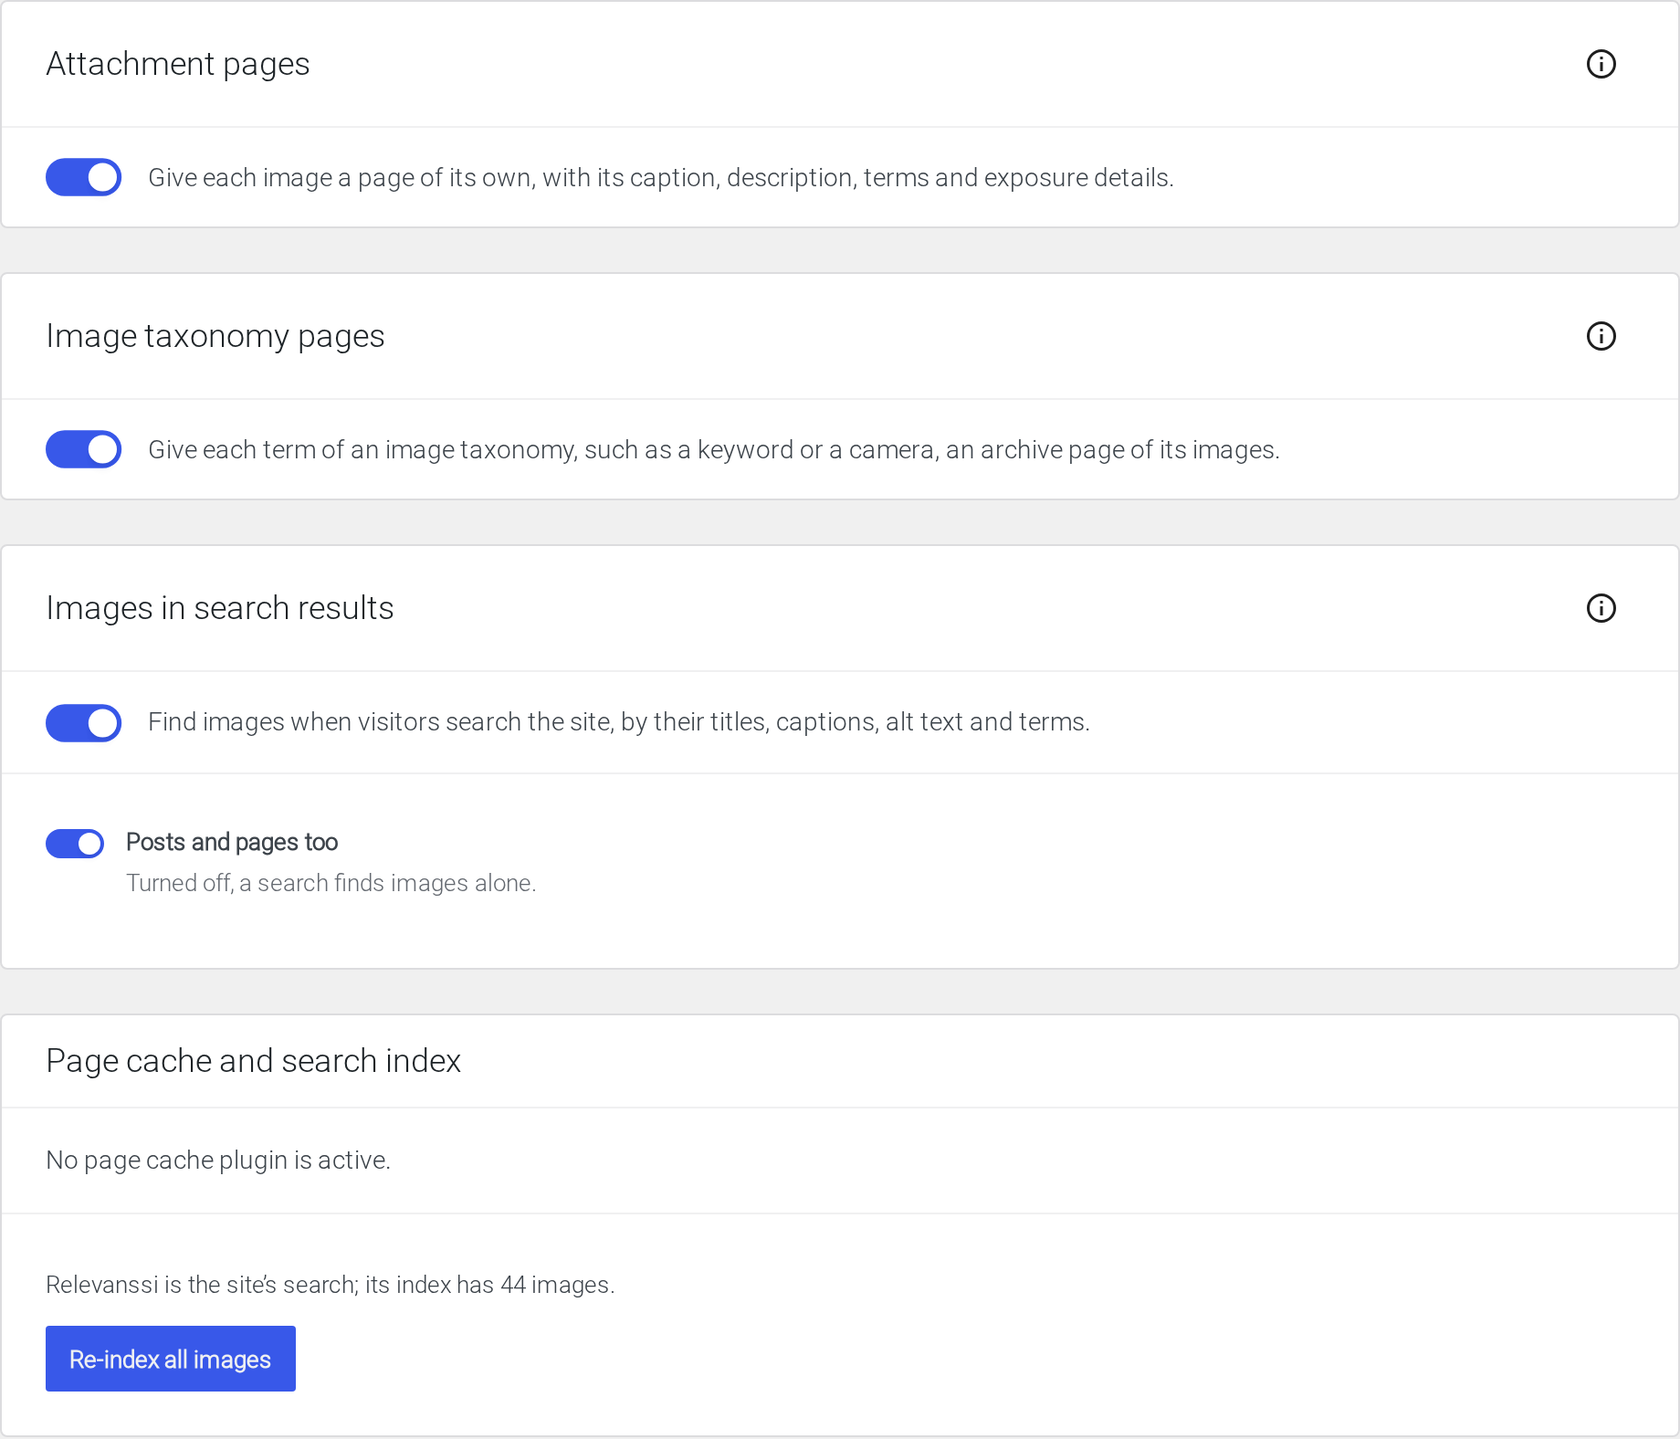
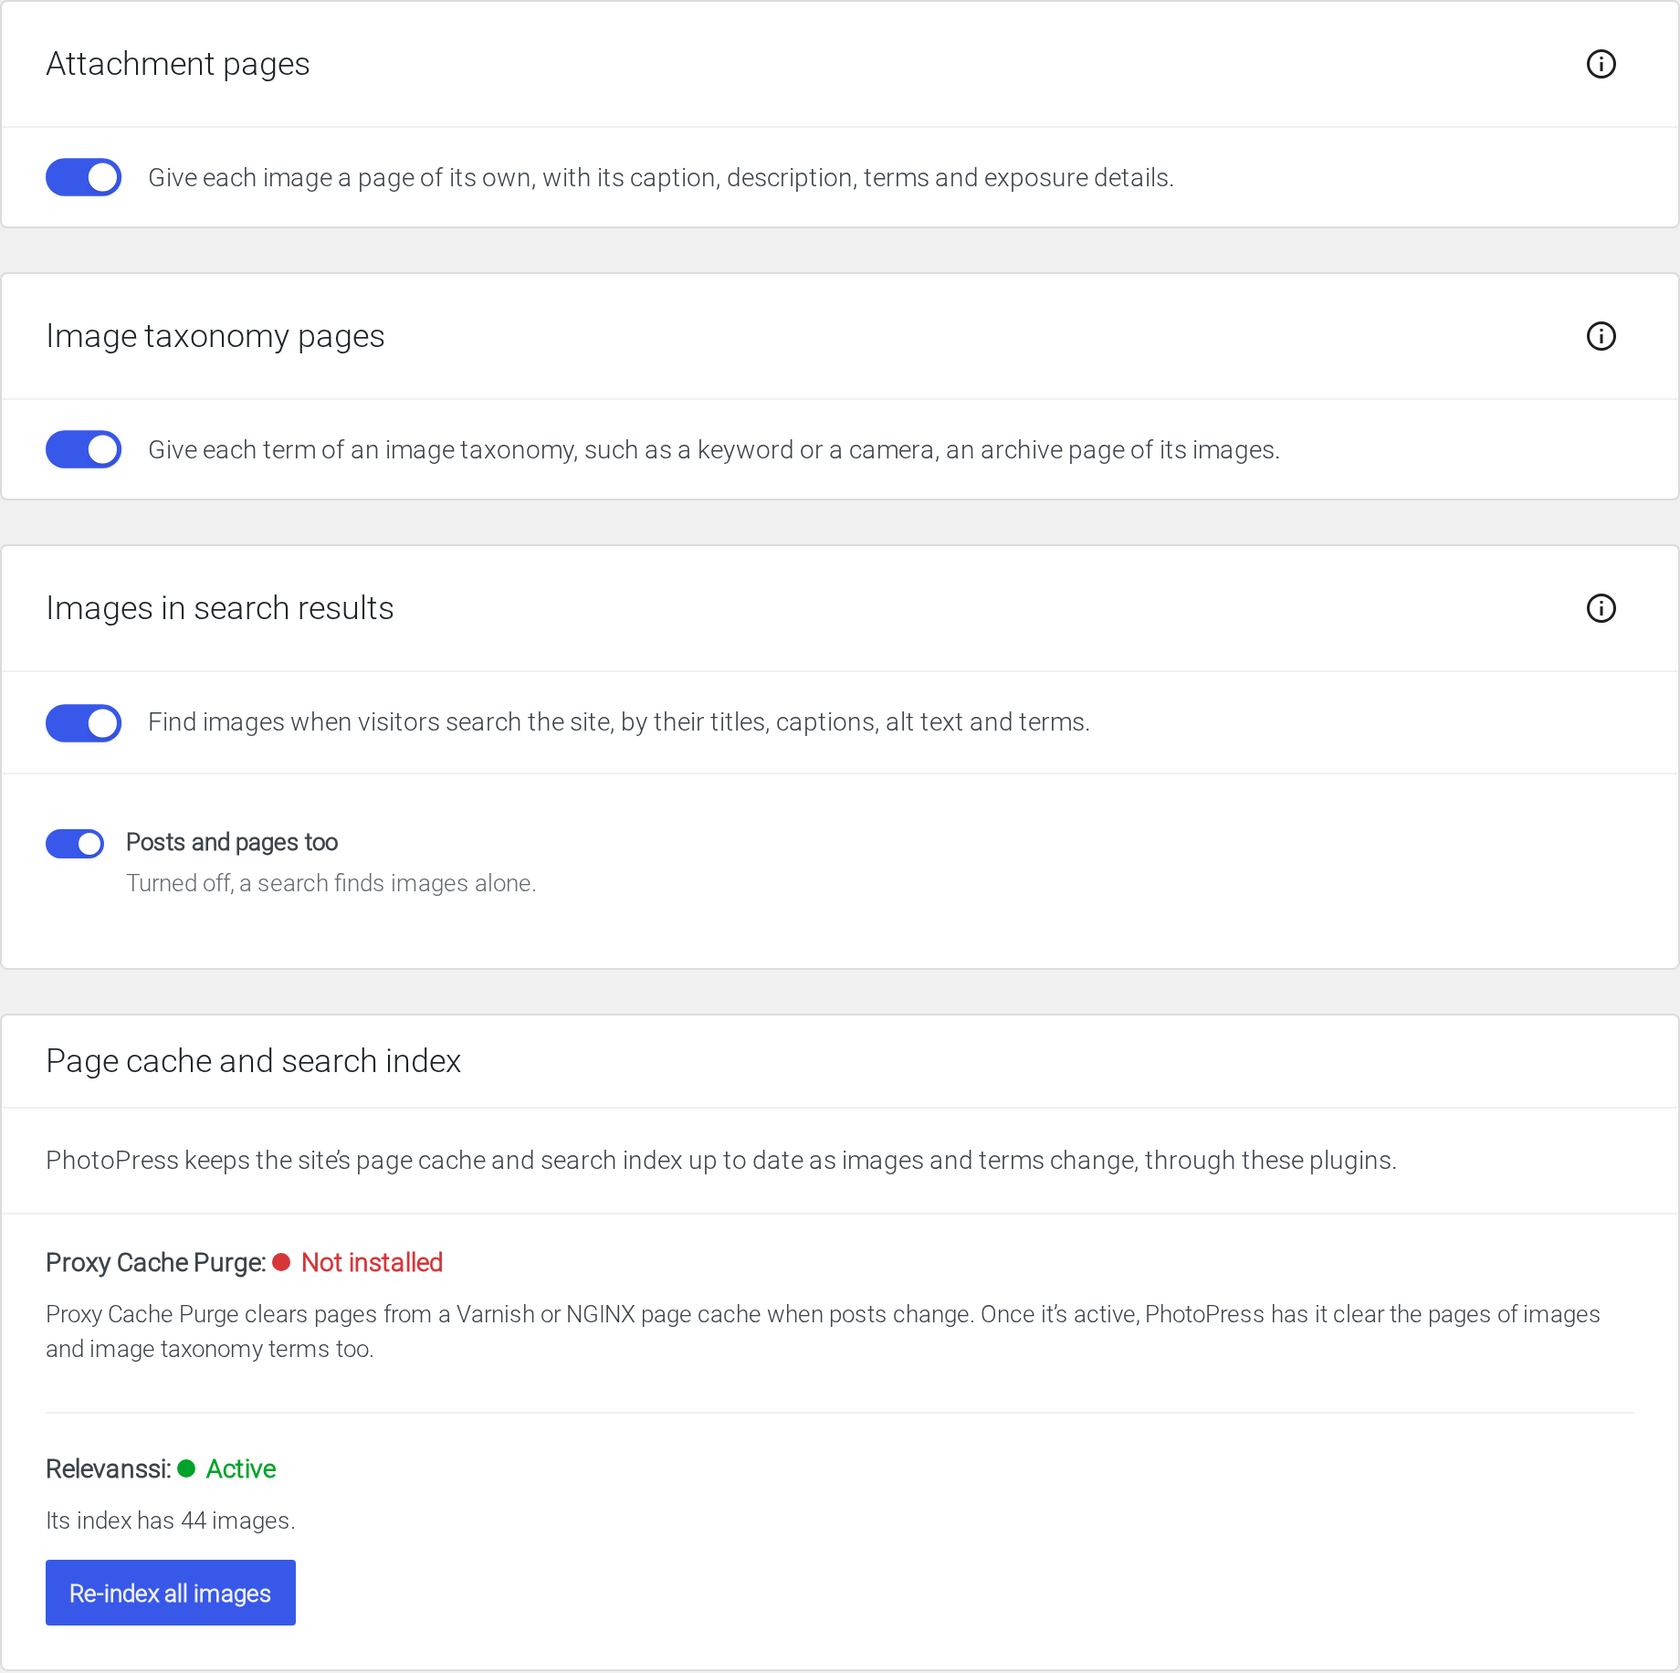
Page cache and search index card: Proxy Cache Purge and Relevanssi shown active, disabled or not installed, as the Offload Media tab shows WP Offload Media (a shared PluginState); detection of cache plugins PhotoPress doesn't clear through removed

diff --git a/src/options/search.js b/src/options/search.js
@@ -20,22 +20,23 @@ import {
 import FeatureSection from '../shared/feature-section.js';
 import SwitchRow from '../shared/switch-row.js';
 import JobPanel from '../shared/jobs.js';
+import PluginState from '../shared/plugin-state.js';
 
-// Whether Relevanssi is the site's search, and its index; the page cache
-// plugin, and whether PhotoPress clears its pages (modules/search).
-const RELEVANSSI = window.photopressRelevanssi || { active: false };
-const PAGE_CACHE = window.photopressPageCache || { plugin: '', purges: false };
+// Proxy Cache Purge and Relevanssi: active, inactive or missing, and the
+// images in Relevanssi's index (modules/search).
+const RELEVANSSI = window.photopressRelevanssi || { plugin: 'missing' };
+const PAGE_CACHE = window.photopressPageCache || { plugin: 'missing' };
 
-/** The page cache in use, and whether PhotoPress clears its pages. */
-function pageCache() {
-	if ( PAGE_CACHE.purges ) {
-		return sprintf( __( 'Pages are cached by %s. PhotoPress clears the pages of images and image taxonomy terms when they change.' ), PAGE_CACHE.plugin );
-	}
+const PAGE_CACHE_TEXT = {
+	active: __( 'PhotoPress has it clear an image’s page when the image is edited or deleted or its terms change, while attachment pages are on, and every page of a term’s archive when its images change or the term is renamed, while image taxonomy pages are on.' ),
+	inactive: __( 'Activate it to clear the pages of images and image taxonomy terms from the page cache when they change.' ),
+	missing: __( 'Proxy Cache Purge clears pages from a Varnish or NGINX page cache when posts change. Once it’s active, PhotoPress has it clear the pages of images and image taxonomy terms too.' ),
+};
 
-	return PAGE_CACHE.plugin
-		? sprintf( __( 'Pages are cached by %s. PhotoPress doesn’t clear its pages; they are refreshed as its settings say.' ), PAGE_CACHE.plugin )
-		: __( 'No page cache plugin is active.' );
-}
+const RELEVANSSI_TEXT = {
+	inactive: __( 'Activate it to search the site with its index.' ),
+	missing: __( 'Relevanssi replaces WordPress’s search with one that ranks results by relevance. Once it’s active, PhotoPress has it index images and their terms.' ),
+};
 
 class SearchSettings extends Component {
 	constructor() {
@@ -124,33 +125,38 @@ class SearchSettings extends Component {
 				<FeatureSection
 					title={ __( 'Page cache and search index' ) }
 					className="photopress-search-cache"
-					description={ pageCache() }
-					info={ PAGE_CACHE.purges && [
-						<p key="0">{ __( 'Proxy Cache Purge clears a post’s pages when the post is saved, but not an image’s, or a term’s. PhotoPress clears an image’s page when the image is edited or deleted or its terms change, while attachment pages are on, and every page of a term’s archive when its images change or it is renamed, while image taxonomy pages are on.' ) }</p>,
-					] }
+					description={ __( 'PhotoPress keeps the site’s page cache and search index up to date as images and terms change, through these plugins.' ) }
 				>
-					{ RELEVANSSI.active ? (
-						<div className="photopress-search-relevanssi">
-							<p>
-								{ RELEVANSSI.images
-									? sprintf( _n( 'Relevanssi is the site’s search; its index has %s image.', 'Relevanssi is the site’s search; its index has %s images.', RELEVANSSI.images ), RELEVANSSI.images.toLocaleString() )
-									: __( 'Relevanssi is the site’s search, and its index has no images yet.' ) }
-							</p>
-							<JobPanel
-								type="search.index"
-								label={ __( 'Adding images to the search index' ) }
-								compact
-								startable={ !! this.getSetting( 'images_in_search' ) }
-								startLabel={ __( 'Re-index all images' ) }
-								refresh={ this.state.settings.images_in_search }
-							/>
-							{ ! this.getSetting( 'images_in_search' ) && (
-								<p className="components-base-control__help">{ __( 'Turn on Images in search results to add images to the index.' ) }</p>
-							) }
-						</div>
-					) : (
-						<p>{ __( 'The site’s search is WordPress’s own, which keeps no index.' ) }</p>
-					) }
+					<div className="photopress-plugin-status" data-plugin="varnish-http-purge">
+						<PluginState name={ __( 'Proxy Cache Purge' ) } state={ PAGE_CACHE.plugin } />
+						<p>{ PAGE_CACHE_TEXT[ PAGE_CACHE.plugin ] }</p>
+					</div>
+
+					<div className="photopress-plugin-status" data-plugin="relevanssi">
+						<PluginState name={ __( 'Relevanssi' ) } state={ RELEVANSSI.plugin } />
+						{ 'active' === RELEVANSSI.plugin ? (
+							<>
+								<p>
+									{ RELEVANSSI.images
+										? sprintf( _n( 'Its index has %s image.', 'Its index has %s images.', RELEVANSSI.images ), RELEVANSSI.images.toLocaleString() )
+										: __( 'Its index has no images yet.' ) }
+								</p>
+								<JobPanel
+									type="search.index"
+									label={ __( 'Adding images to the search index' ) }
+									compact
+									startable={ !! this.getSetting( 'images_in_search' ) }
+									startLabel={ __( 'Re-index all images' ) }
+									refresh={ this.state.settings.images_in_search }
+								/>
+								{ ! this.getSetting( 'images_in_search' ) && (
+									<p className="components-base-control__help">{ __( 'Turn on Images in search results to add images to the index.' ) }</p>
+								) }
+							</>
+						) : (
+							<p>{ RELEVANSSI_TEXT[ RELEVANSSI.plugin ] }</p>
+						) }
+					</div>
 				</FeatureSection>
 			</Fragment>
 		);

diff --git a/tests/e2e/search-settings.spec.js b/tests/e2e/search-settings.spec.js
@@ -118,30 +118,39 @@ test( 'image taxonomy pages off: no keyword archive, terms shown unlinked, and t
 	expect( ( await page.goto( archive ) ).status() ).toBe( 200 );
 } );
 
-test( 'the page cache and search index card: the cache in use, and Relevanssi\'s index with Re-index all images', async ( { page } ) => {
-	const status = JSON.parse( lastLine( wp( 'eval', `echo wp_json_encode( [
-		'cache'      => \\PhotoPress\\modules\\search\\PageCache::plugin(),
-		'relevanssi' => \\PhotoPress\\modules\\search\\ImageSearch::relevanssi(),
-		'images'     => \\PhotoPress\\modules\\search\\search::enabled( 'images_in_search', false ),
-	] );` ) ) );
+test( 'the page cache and search index card: Proxy Cache Purge and Relevanssi as the Offload Media tab shows its plugin, with Re-index all images', async ( { page } ) => {
+	const status = JSON.parse( lastLine( wp( 'eval', `
+		use PhotoPress\\modules\\search\\{ search, PageCache, ImageSearch };
+		echo wp_json_encode( [
+			'cache'      => search::pluginState( PageCache::purges(), [ 'varnish-http-purge/' ] ),
+			'relevanssi' => search::pluginState( ImageSearch::relevanssi(), [ 'relevanssi/', 'relevanssi-premium/' ] ),
+			'images'     => search::enabled( 'images_in_search', false ),
+		] );
+	` ) ) );
+	const STATES = { active: 'Active', inactive: 'Disabled', missing: 'Not installed' };
 
 	await page.goto( URL );
 	const card = page.locator( '.photopress-search-cache' );
 	await expect( card.getByRole( 'heading', { name: 'Page cache and search index' } ) ).toBeVisible( { timeout: 30000 } );
 	await expect( card.getByRole( 'checkbox' ) ).toHaveCount( 0 );
-	await expect( card ).toContainText( status.cache ? `Pages are cached by ${ status.cache }.` : 'No page cache plugin is active.' );
 
-	if ( ! status.relevanssi ) {
-		await expect( card ).toContainText( 'The site’s search is WordPress’s own, which keeps no index.' );
+	const cache = card.locator( '[data-plugin="varnish-http-purge"] .photopress-plugin-state' );
+	await expect( cache ).toHaveText( `Proxy Cache Purge: ${ STATES[ status.cache ] }` );
+	await expect( cache.locator( `.is-${ status.cache }` ) ).toBeVisible();
+
+	const relevanssi = card.locator( '[data-plugin="relevanssi"]' );
+	await expect( relevanssi.locator( '.photopress-plugin-state' ) ).toHaveText( `Relevanssi: ${ STATES[ status.relevanssi ] }` );
+	if ( 'active' !== status.relevanssi ) {
+		await expect( relevanssi.getByRole( 'button' ) ).toHaveCount( 0 );
 		return;
 	}
 
-	await expect( card ).toContainText( /Relevanssi is the site’s search(; its index has [\d,]+ images?\.|, and its index has no images yet\.)/ );
-	const reindex = card.getByRole( 'button', { name: 'Re-index all images' } );
+	await expect( relevanssi ).toContainText( /Its index has ([\d,]+ images?|no images yet)\./ );
+	const reindex = relevanssi.getByRole( 'button', { name: 'Re-index all images' } );
 	if ( status.images ) {
 		await expect( reindex ).toBeEnabled();
 	} else {
 		await expect( reindex ).toHaveCount( 0 );
-		await expect( card ).toContainText( 'Turn on Images in search results to add images to the index.' );
+		await expect( relevanssi ).toContainText( 'Turn on Images in search results to add images to the index.' );
 	}
 } );

diff --git a/src/options/media.js b/src/options/media.js
@@ -4,6 +4,7 @@
  */
 const { __, _n, sprintf } = wp.i18n;
 import SwitchRow from '../shared/switch-row.js';
+import PluginState from '../shared/plugin-state.js';
 import { Component, useEffect, useState } from '@wordpress/element';
 import apiFetch from '@wordpress/api-fetch';
 import { BaseControl, Button, Notice, PanelBody, SelectControl, TextControl } from '@wordpress/components';
@@ -23,12 +24,6 @@ const CREDENTIAL_SOURCES = {
 	photopress: __( 'PHOTOPRESS_AWS_* constants in wp-config.php' ),
 	'instance-role': __( 'The server’s IAM role' ),
 	'offload-media': __( "WP Offload Media's credentials" ),
-};
-
-const PLUGIN_STATES = {
-	active: __( 'Active' ),
-	inactive: __( 'Disabled' ),
-	missing: __( 'Not installed' ),
 };
 
 const when = ( time ) => new Date( time * 1000 ).toLocaleString();
@@ -77,12 +72,7 @@ function OffloadStatus() {
 		return error ? <Notice status="error" isDismissible={ false }>{ error }</Notice> : <p>{ __( 'Checking…' ) }</p>;
 	}
 
-	const state = (
-		<p className="photopress-offload-state">
-			{ __( 'WP Offload Media:' ) }{ ' ' }
-			<span className={ `photopress-offload-state__value is-${ status.plugin }` }>{ PLUGIN_STATES[ status.plugin ] || status.plugin }</span>
-		</p>
-	);
+	const state = <PluginState name={ __( 'WP Offload Media' ) } state={ status.plugin } />;
 
 	if ( 'missing' === status.plugin ) {
 		return (

diff --git a/src/shared/styles/options.scss b/src/shared/styles/options.scss
@@ -358,15 +358,34 @@ input[type="checkbox"] {
 	margin-top: 8px;
 }
 
-// "Offload Media status: Active / Disabled / Not installed", colored as
-// WordPress colors success, warning and error, with a dot, so the color is
-// not the only signal.
-.photopress-offload-state {
+// A plugin PhotoPress works with, on the Pages & Search tab: its state, and
+// what PhotoPress does with it.
+.photopress-plugin-status {
+
+	+ .photopress-plugin-status {
+		margin-top: 24px;
+		padding-top: 20px;
+		border-top: 1px solid #f0f0f1;
+	}
+
+	p {
+		margin: 0 0 12px;
+	}
+
+	.photopress-plugin-state {
+		margin-bottom: 8px;
+	}
+}
+
+// Another plugin's state (src/shared/plugin-state.js): "Name: Active /
+// Disabled / Not installed", colored as WordPress colors success, warning
+// and error, with a dot, so the color is not the only signal.
+.photopress-plugin-state {
 	font-size: 14px;
 	font-weight: 600;
 }
 
-.photopress-offload-state__value {
+.photopress-plugin-state__value {
 
 	&::before {
 		content: "";

diff --git a/src/shared/plugin-state.js b/src/shared/plugin-state.js
@@ -1,0 +1,20 @@
+/**
+ * Another plugin PhotoPress works with, and whether it is active, installed
+ * but not active, or not installed: "Name: ● Active".
+ */
+import { __ } from '@wordpress/i18n';
+
+const STATES = {
+	active: __( 'Active' ),
+	inactive: __( 'Disabled' ),
+	missing: __( 'Not installed' ),
+};
+
+export default function PluginState( { name, state } ) {
+	return (
+		<p className="photopress-plugin-state">
+			{ name }:{ ' ' }
+			<span className={ `photopress-plugin-state__value is-${ state }` }>{ STATES[ state ] || state }</span>
+		</p>
+	);
+}

diff --git a/modules/search/search.php b/modules/search/search.php
@@ -77,9 +77,8 @@ class search extends photopress_module {
 	}
 
 	/**
-	 * admin_enqueue_scripts: for the settings page, the page cache plugin
-	 * and whether PhotoPress clears its pages; whether Relevanssi is the
-	 * site's search and how many images its index has.
+	 * admin_enqueue_scripts: for the settings page, the state of Proxy Cache
+	 * Purge and Relevanssi, and how many images Relevanssi's index has.
 	 */
 	public static function shareStatus() {
 
@@ -87,15 +86,40 @@ class search extends photopress_module {
 			return;
 		}
 
-		$relevanssi = [ 'active' => ImageSearch::relevanssi() ];
+		$relevanssi = [ 'plugin' => self::pluginState( ImageSearch::relevanssi(), [ 'relevanssi/', 'relevanssi-premium/' ] ) ];
 
-		if ( $relevanssi['active'] ) {
+		if ( 'active' === $relevanssi['plugin'] ) {
 			$relevanssi['images'] = ImageSearch::indexedImages();
 		}
 
-		$cache = [ 'plugin' => PageCache::plugin(), 'purges' => PageCache::purges() ];
+		$cache = [ 'plugin' => self::pluginState( PageCache::purges(), [ 'varnish-http-purge/' ] ) ];
 
 		wp_add_inline_script( 'photopress-options-script', 'window.photopressRelevanssi = ' . wp_json_encode( $relevanssi ) . '; window.photopressPageCache = ' . wp_json_encode( $cache ) . ';', 'before' );
+	}
+
+	/**
+	 * A plugin "active", "inactive" (installed) or "missing", by whether it
+	 * is running and the folders it is installed in.
+	 */
+	public static function pluginState( $active, array $folders ) {
+
+		if ( $active ) {
+			return 'active';
+		}
+
+		if ( ! function_exists( 'get_plugins' ) ) {
+			require_once ABSPATH . 'wp-admin/includes/plugin.php';
+		}
+
+		foreach ( array_keys( get_plugins() ) as $file ) {
+			foreach ( $folders as $folder ) {
+				if ( 0 === strpos( $file, $folder ) ) {
+					return 'inactive';
+				}
+			}
+		}
+
+		return 'missing';
 	}
 
 	public function registerOptions() {

diff --git a/modules/search/PageCache.php b/modules/search/PageCache.php
@@ -14,8 +14,7 @@ namespace PhotoPress\modules\search;
  *   leaves the term or is edited or deleted, while image taxonomy pages are
  *   on. A renamed term's are cleared by RenamedTerms.
  *
- * Other page cache plugins are named on the Pages & Search tab, and left to
- * their own rules.
+ * The Pages & Search tab shows whether Proxy Cache Purge is active.
  */
 class PageCache {
 
@@ -38,24 +37,6 @@ class PageCache {
 	public static function purges() {
 
 		return class_exists( 'VarnishPurger' ) && is_callable( [ 'VarnishPurger', 'purge_url' ] );
-	}
-
-	/** The page cache plugin active, by name, or ''. */
-	public static function plugin() {
-
-		$plugins = [
-			'Proxy Cache Purge'  => self::purges(),
-			'WP Rocket'          => defined( 'WP_ROCKET_VERSION' ),
-			'W3 Total Cache'     => defined( 'W3TC' ),
-			'LiteSpeed Cache'    => defined( 'LSCWP_V' ),
-			'WP Super Cache'     => defined( 'WPCACHEHOME' ),
-			'WP Fastest Cache'   => class_exists( 'WpFastestCache' ),
-			'Cache Enabler'      => class_exists( 'Cache_Enabler' ),
-			'Breeze'             => defined( 'BREEZE_VERSION' ),
-			'Nginx Helper'       => defined( 'NGINX_HELPER_BASENAME' ),
-		];
-
-		return (string) array_search( true, $plugins, true );
 	}
 
 	/**

diff --git a/tests/php/PageCacheTest.php b/tests/php/PageCacheTest.php
@@ -4,6 +4,7 @@ namespace PhotoPress\Tests;
 
 use Brain\Monkey\Functions;
 use PhotoPress\modules\search\PageCache;
+use PhotoPress\modules\search\search;
 
 /**
  * The pages PhotoPress clears through Proxy Cache Purge: an image's page,
@@ -101,9 +102,15 @@ final class PageCacheTest extends TestCase {
 		$this->assertSame( [ 'https://example.com/image-7/', 'https://example.com/keywords/ojai/?vhp-regex' ], $this->purged() );
 	}
 
-	public function test_the_page_cache_plugin_is_named(): void {
+	public function test_proxy_cache_purge_active_installed_or_not(): void {
+
+		$plugins = [ 'akismet/akismet.php' => [] ];
+		Functions\when( 'get_plugins' )->alias( static function () use ( &$plugins ) { return $plugins; } );
 
 		$this->assertTrue( PageCache::purges() );
-		$this->assertSame( 'Proxy Cache Purge', PageCache::plugin() );
+		$this->assertSame( 'active', search::pluginState( PageCache::purges(), [ 'varnish-http-purge/' ] ) );
+		$this->assertSame( 'missing', search::pluginState( false, [ 'varnish-http-purge/' ] ) );
+		$plugins['varnish-http-purge/varnish-http-purge.php'] = [];
+		$this->assertSame( 'inactive', search::pluginState( false, [ 'varnish-http-purge/' ] ) );
 	}
 }

diff --git a/README.md b/README.md
@@ -114,7 +114,7 @@ For block themes that have no templates of their own for them (WordPress 6.7 or 
 - Both on by default; while each is on, block themes get PhotoPress's template for those pages
 - Images in search results switch (off by default): visitors' searches find images by their titles, captions, alt text and terms, with posts and pages too unless turned off. Block themes get an Image Search template of blocks, to order as you like: the search box, a Search Summary (the terms and the number of images found), the images in a Taxonomy Gallery in rows with each one's file name and title under it, with numbered pages, and the posts and pages found in a Search Posts block
 - With Relevanssi, PhotoPress has it index images, their alt text and the image taxonomies (its settings show the same), keeps an image's entry current as its terms change or are renamed, and adds existing images to its index in the background
-- Page cache and search index: the page cache plugin in use and, with Relevanssi, how many images its index has, with a Re-index all images button. With Proxy Cache Purge, which clears a post's pages when it is saved but not an image's or a term's, PhotoPress clears an image's page when the image is edited or deleted or its terms change (while attachment pages are on), and every page of a term's archive when its images change or the term is renamed (while image taxonomy pages are on)
+- Page cache and search index: whether Proxy Cache Purge and Relevanssi are active, installed or not installed, as the Offload Media tab shows WP Offload Media, and how many images Relevanssi's index has, with a Re-index all images button. With Proxy Cache Purge, which clears a post's pages when it is saved but not an image's or a term's, PhotoPress clears an image's page when the image is edited or deleted or its terms change (while attachment pages are on), and every page of a term's archive when its images change or the term is renamed (while image taxonomy pages are on)
 
 ![The Pages & Search tab](.wordpress-org/screenshot-18.png)
 
